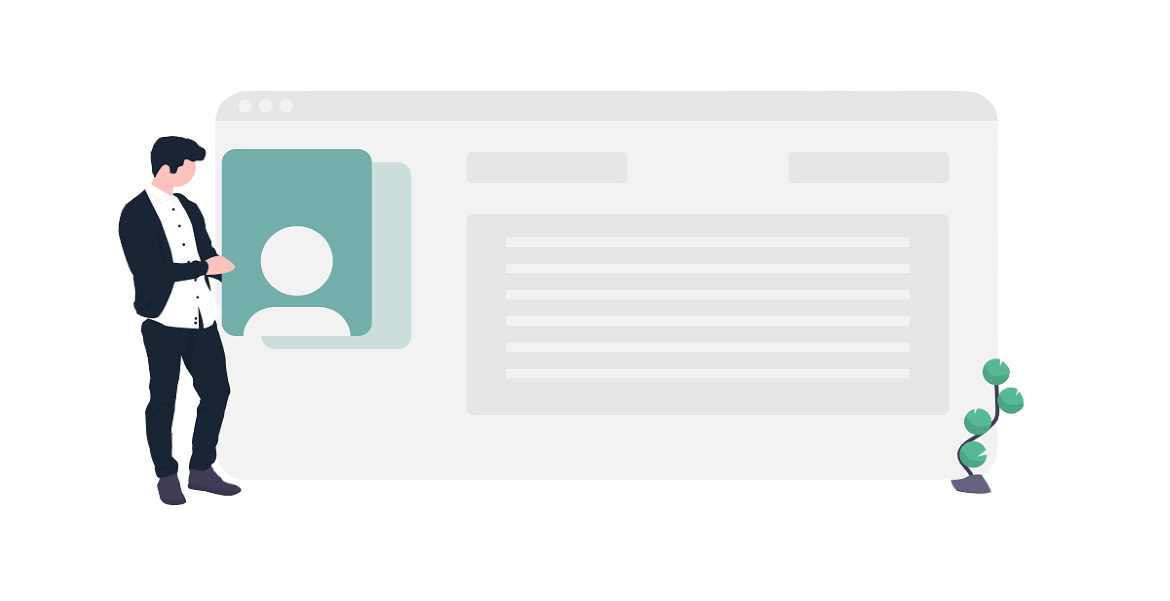
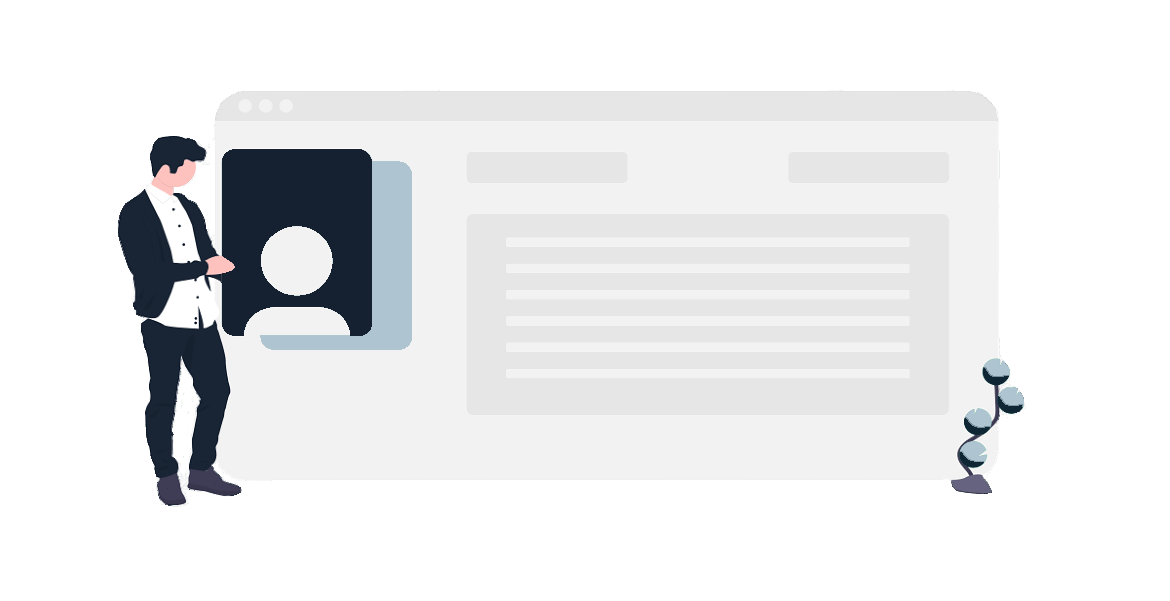
3

Changed region(s): [[0.1846, 0.2396, 0.3692, 0.599], [0.8, 0.599, 0.8923, 0.7787]]

diff --git a/components/body/usluge.component.js b/components/body/usluge.component.js
@@ -9,31 +9,31 @@ import Card from "./card.comonent";
 export default function Usluge() {
   let cards = [
     {
-      title: "Kreiranje firme i povezane firme",
+      title: "Obračun zakonske zatezne kamate",
       text: "It is a long established fact that a reader will be distracted by the readable content of a page when looking at its layout.",
       image: "/images/usluge1.png",
       flag: true,
     },
     {
-      title: "Kreiranje naloga i kontnih planova",
+      title: "Revalorizacija",
       text: "It is a long established fact that a reader will be distracted by the readable content of a page when looking at its layout.",
       image: "/images/usluge2.png",
       flag: true,
     },
     {
-      title: "Konsolidovanje",
+      title: "Domaća i strana dugovanja/potraživanja",
       text: "It is a long established fact that a reader will be distracted by the readable content of a page when looking at its layout.",
       image: "/images/usluge3.png",
       flag: true,
     },
     {
-      title: "Finansije",
+      title: "Eskont",
       text: "It is a long established fact that a reader will be distracted by the readable content of a page when looking at its layout.",
       image: "/images/usluge4.png",
       flag: false,
     },
     {
-      title: "Podesive liste",
+      title: "Redovna kamata",
       text: "It is a long established fact that a reader will be distracted by the readable content of a page when looking at its layout.",
       image: "/images/usluge5.png",
       flag: false,
@@ -48,7 +48,7 @@ export default function Usluge() {
   return (
     <div
       className={
-        "md:p-10 mx-auto -mt-20  w-full text-center relative max-w-[1200px] w-full  bg-mainlight text-footertextcolor z-20 "
+        "md:p-10 mx-auto -mt-20  w-full text-center relative max-w-[1200px] bg-mainlight text-footertextcolor z-20 "
       }
     >
       <div className="mt-5">
@@ -57,8 +57,7 @@ export default function Usluge() {
           <FontAwesomeIcon icon={faUsersLine} />
         </span>
         <p className="w-50 text-lg mt-5">
-          Aplikacija je razvijena u punoj saradnji sa iskusnim računovođama i
-          kancelarijama sa dugogodišnjom praksom.
+          Aplikacija je razvijena iz višegodišnjeg iskustva u knjigovodstvu, sudskim i stečajnim postupcima.
         </p>
       </div>
 

diff --git a/components/VrstePaketa.js b/components/VrstePaketa.js
@@ -6,10 +6,11 @@ export default function VrstePaketa() {
     {
       image: "/images/logoNoBlur.svg",
       title: "basic",
-      perks: ["Tri korisnička naloga", "Neograničen broj pacijenata", "Neograničen broj kartona", "Neograničeno zakazivanje termina", "Kreiranje anamneze", "Virtuelni račun", "Otpremanje RTG snimaka", "Višejezična aplikacija"],
+      perks: ["jedan korisnički nalog", "ograničen broj obračuna", "ograničene mogućnosti", "nemogućnost štampe", "online pristup"],
       pic: "",
       primary: false,
-      style: "left"
+      style: "left",
+      zakogaje: "otvoren pristup"
     },
     {
       image: "/images/logoNoBlur.svg",
@@ -17,7 +18,8 @@ export default function VrstePaketa() {
       perks: ["Pet korisnička naloga", "Sve što sadrži Basic paket", "Finansije i štampanje izveštaja", "Uvid u sva dugovanja pacijenata", "Kreiranje liste zadataka", "Sistem notifikacija", "Upravljanje korisničkim nalozima", "Puno manjih opcija"],
       pic: "",
       primary: true,
-      style: "bottom"
+      style: "bottom",
+      zakogaje: "za advokate, stečajne upravnike, veštake i knjigovođe"
     },
     {
       image: "/images/logoNoBlur.svg",
@@ -26,6 +28,8 @@ export default function VrstePaketa() {
       pic: "",
       primary: false,
       style: "right"
+      ,
+      zakogaje: "za velike poslovne sisteme"
     },
   ];
   return (

diff --git a/components/paketi/paketcard.js b/components/paketi/paketcard.js
@@ -42,7 +42,7 @@ export default function PaketCard({ paket }) {
         someClass
       }
     >
-      <div className="bg-main mx-auto rounded text-center h-60 p-4 transition-transform md:w-48 shadow cursor-pointer drop-shadow-[0_10px_5px_rgba(0,0,0,0.35)] hover:scale-110">
+      <div className="bg-main opacity-90 mx-auto rounded text-center h-60 p-4 transition-transform md:w-48 shadow cursor-pointer drop-shadow-[0_10px_5px_rgba(0,0,0,0.35)] hover:scale-110">
         <p className="text-center text-white">{paket.title}</p>
         <div className="text-center mt-10">
           <Image
@@ -53,8 +53,8 @@ export default function PaketCard({ paket }) {
             alt="logo"
           />
         </div>
-        <p className="text-center mt-10 text-white text-xs">
-          aplikacija za računovodstvene agencije
+        <p className="text-center mt-10 text-white text-sm">
+          {paket.zakogaje}
         </p>
       </div>
       <div className="text-center h-14"></div>

diff --git a/components/body/card.comonent.js b/components/body/card.comonent.js
@@ -46,7 +46,7 @@ export default function Card({ text, title, image, index, flag }) {
   return (
     <div
       className={
-        "flex flex-col p-8 relative h-96 bg-white overflow-hidden drop-shadow-[0_5px_15px_rgba(0,0,0,0.15)] rounded hover:-translate-y-4 animate transition-transform duration-300 ease-in-out card " +
+        "flex flex-col cursor-pointer p-8 relative h-96 bg-white overflow-hidden drop-shadow-[0_5px_15px_rgba(0,0,0,0.15)] rounded hover:-translate-y-4 animate transition-transform duration-300 ease-in-out card " +
         someClass
       }
     >
@@ -66,7 +66,7 @@ export default function Card({ text, title, image, index, flag }) {
         }
       </div>
       <div>
-        <p className="text-xl font-bold mt-4">{title}</p>
+        <p className="text-xl font-bold mt-4 text-mainlight">{title}</p>
         <p className="text-sm mt-4 text-main">{text}</p>
       </div>
     </div>

diff --git a/components/body/section.component.js b/components/body/section.component.js
@@ -36,12 +36,10 @@ const Section = () => {
         </div>
       )}
           <p ref={ref} className="text-left text-4xl font-bold text-white">
-            Aplikacija za računovodstvene agencije
+            Aplikacija za obračun zakonske zatezne kamate
           </p>
           <p className="text-left text-white mt-5  ">
-            Books predstavlja online aplikaciju koja je kreirana za potrebe
-            računovodstvenih agencija u cilju optimizacije njihovog poslovanja,
-            efikasnije evidencije biznisa i smanjenja papirologije.
+            <span className="font-bold">OBRAČUN.RS </span> je online aplikacija koja je kreirana za sve vrste obračuna kamata, zakonske zatezne kamate i revalorizacije, u skladu sa važećim zakonima i sudskom praksom
           </p>
         <div className="justify-left w-full mt-5 flex flex-grow items-end ">
           <button

diff --git a/pages/_document.js b/pages/_document.js
@@ -6,6 +6,10 @@ export default function Document() {
       <Head>
         <link rel="stylesheet" href="https://fonts.googleapis.com/css2?family=Poppins:wght@300;400&display=swap" />
         <link href="https://fonts.googleapis.com/css2?family=Parisienne&display=swap" rel="stylesheet"></link>   
+        <link
+          href="https://fonts.googleapis.com/css2?family=Lato&display=swap"
+          rel="stylesheet"
+        />
       </Head>
       <body>
         <Main />

diff --git a/components/header.js b/components/header.js
@@ -10,7 +10,7 @@ const Header = () => {
   const [animate, setAnimateMenu] = useState(false);
   let animateMenu = animate
     ? " h-80 ease-in-out duration-500 transition-all z-50 opacity-100"
-    : " h-0 ease-in-out duration-500 transition-all z-0 opacity-0";
+    : " h-0 ease-in-out duration-500 transition-all z-0 opacity-0 hidden";
   const handlePocetnaClick = () => {
     document
       .getElementById("pocetna")

diff --git a/styles/globals.css b/styles/globals.css
@@ -11,7 +11,9 @@ html,
 body {
   max-width: 100vw;
   overflow-x: hidden;
-  font-family: Poppins, sans-serif;
+  /*font-family: Poppins, sans-serif;*/
+  font-family: 'Lato', sans-serif !important;
+
   font-weight: 400;
 }
 
